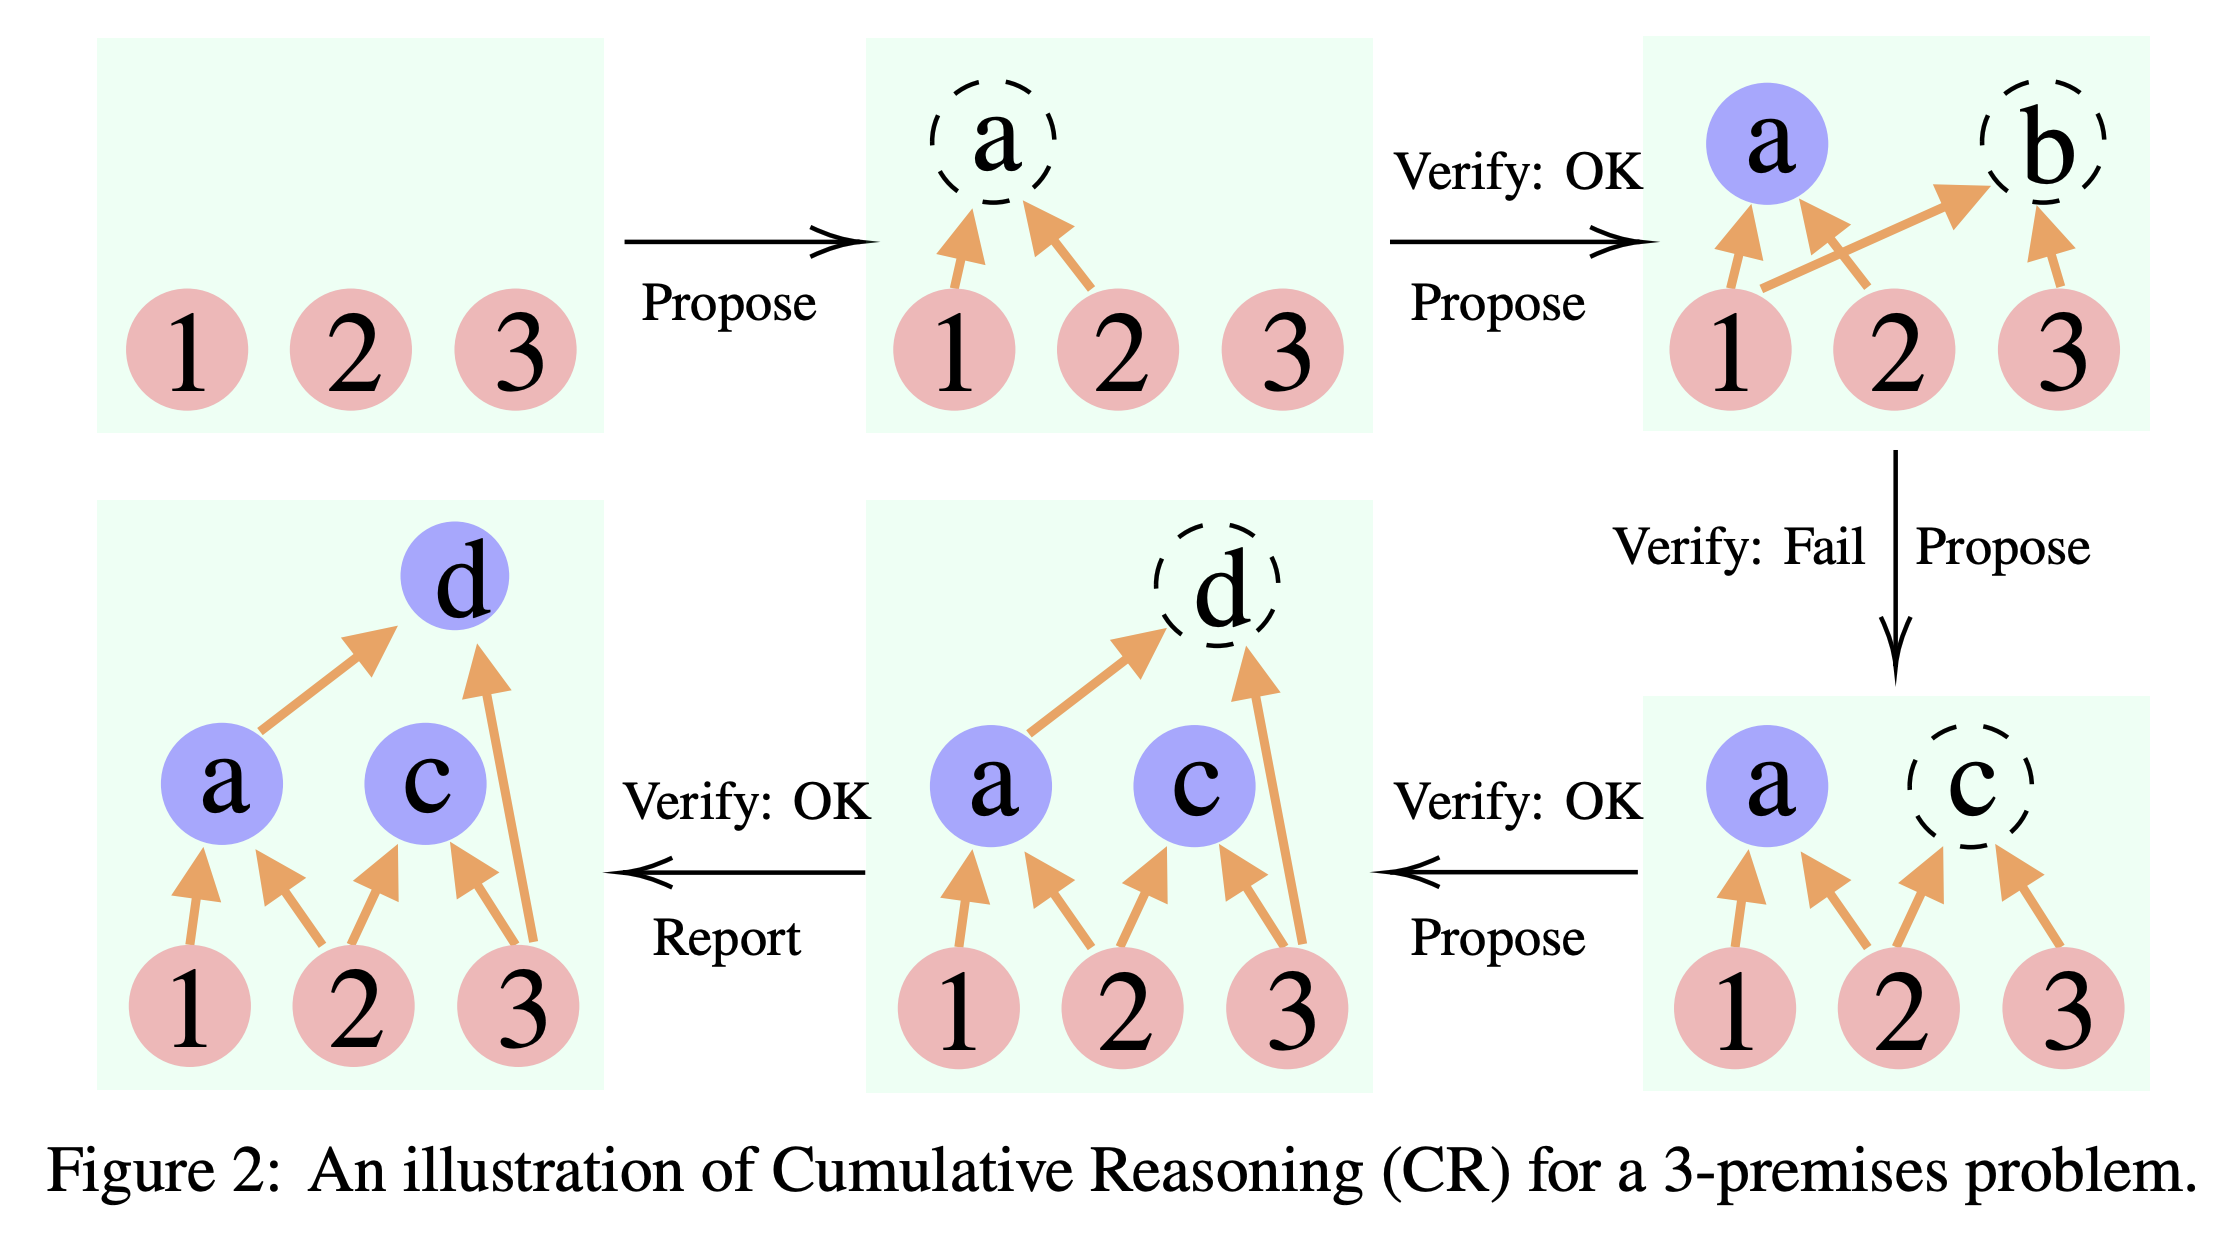
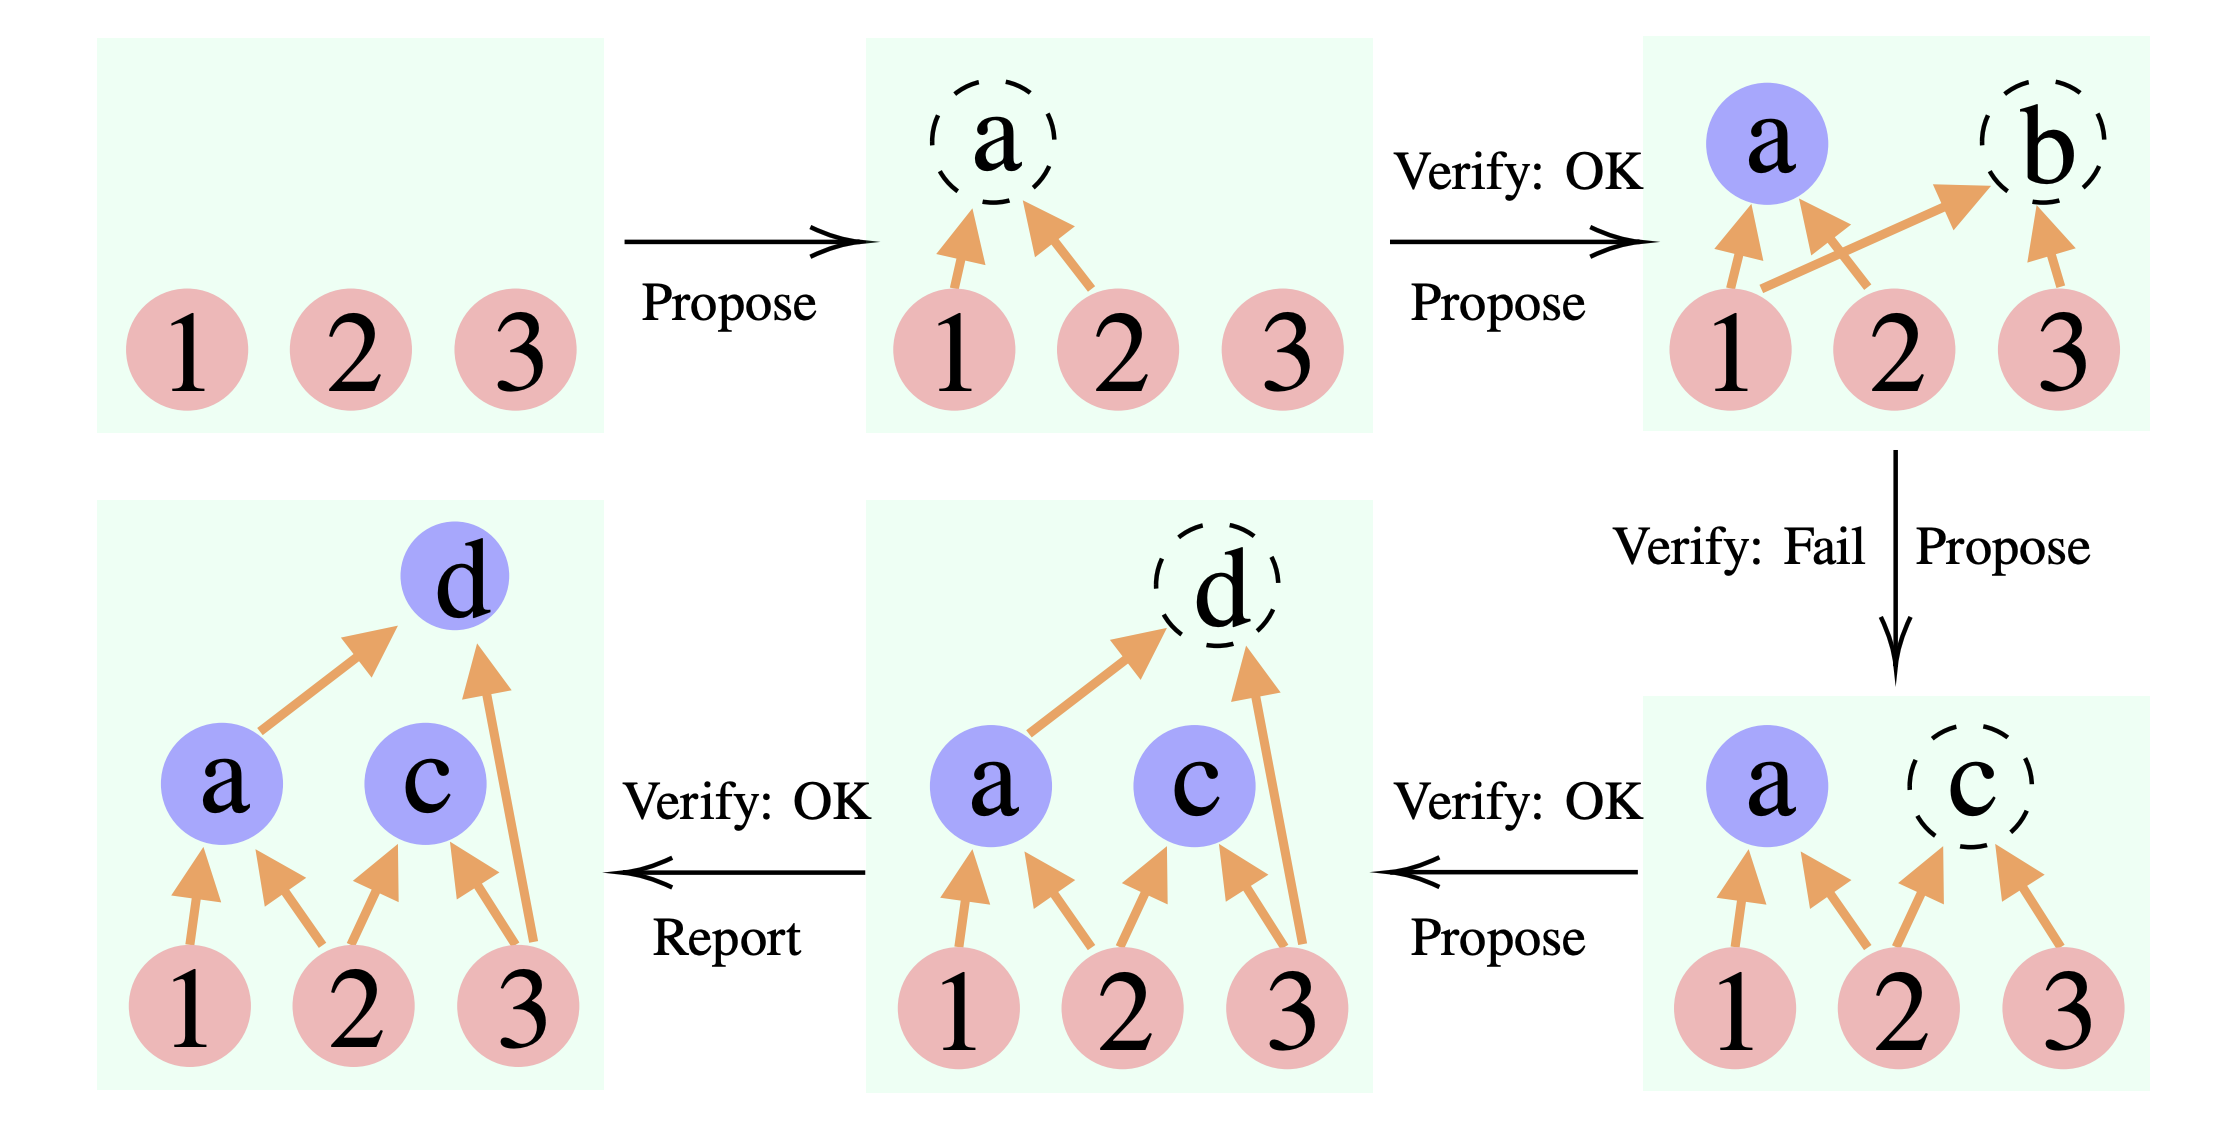
minor

diff --git a/index.html b/index.html
@@ -136,7 +136,7 @@
 <section class="hero teaser">
   <div class="container is-max-desktop">
     <div class="hero-body">
-      <img src="static/images/cr-illustration.png" alt="MY ALT TEXT"/>
+      <img src="static/images/cr-illustration-no-caption.png" alt="MY ALT TEXT"/>
       <h2 class="subtitle has-text-justified">
       </h2>
     </div>
@@ -247,7 +247,7 @@
         <section class="hero teaser">
           <div class="container is-max-desktop">
             <div class="hero-body">
-              <img src="static/images/cr-illustration.png" alt="MY ALT TEXT"/>
+              <img src="static/images/cr-illustration.png" alt="MY ALT TEXT" style="width: 50%; height: auto;"/>
               <h2 class="subtitle has-text-justified">
               </h2>
             </div>
